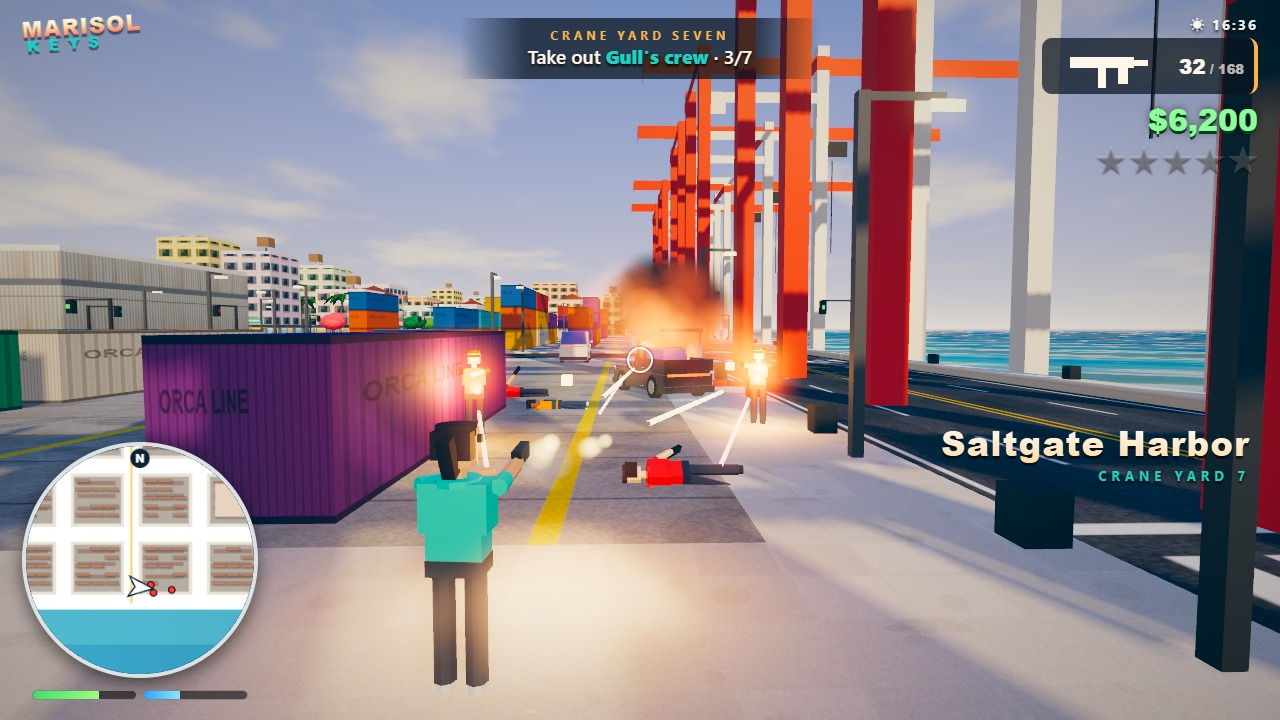
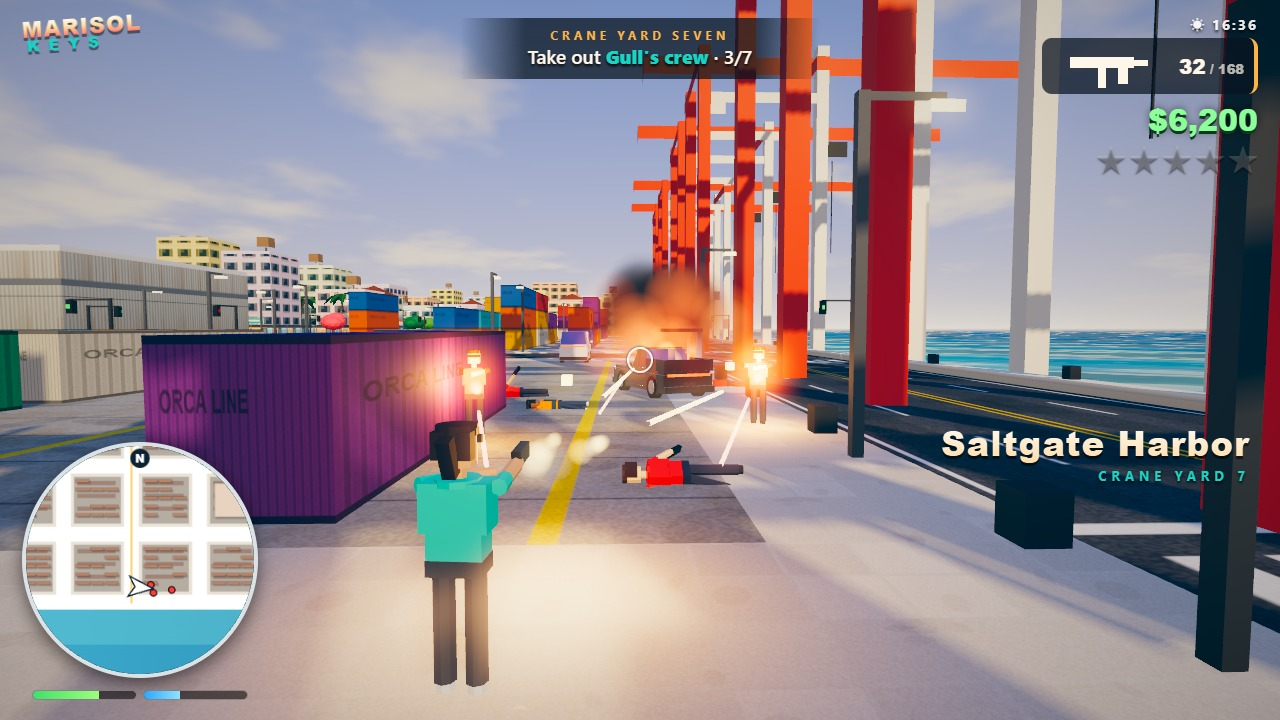
Night sky gets twinkling stars and a moon; lit windows fill the whole pane instead of a torn shape

Changed region(s): [[0.4375, 0.3361, 0.5938, 0.55], [0.4062, 0.6111, 0.4688, 0.6722]]

diff --git a/game/src/sky/skyDome.js b/game/src/sky/skyDome.js
@@ -1,4 +1,5 @@
-// Gradient sky dome with a soft sun disc, glow and painted cumulus bands, following the camera.
+// Gradient sky dome with a soft sun disc, glow and painted cumulus bands, stars and a moon at
+// night, following the camera.
 
 import * as THREE from 'three';
 
@@ -36,6 +37,19 @@ void main() {
   float s = max(dot(d, normalize(uSunDir)), 0.0);
   col += uSunColor * (pow(s, 6.0) * 0.35 + pow(s, 60.0) * 0.6);
   col += vec3(1.0, 0.95, 0.85) * smoothstep(0.9993, 0.9997, s) * 2.0;
+  // night: twinkling stars and a moon opposite the sun, fading in as the zenith darkens
+  float night = smoothstep(0.02, -0.18, normalize(uSunDir).y);
+  if (night > 0.0 && d.y > 0.0) {
+    vec2 sp = d.xz / (d.y + 0.35) * 85.0;
+    vec2 g = floor(sp);
+    float star = step(0.991, hash(g)) * smoothstep(0.24, 0.04, length(fract(sp) - 0.5));
+    float twinkle = 0.65 + 0.35 * sin(uTime * 3.0 + hash(g + 7.0) * 40.0);
+    col += vec3(0.9, 0.95, 1.0) * star * twinkle * night * smoothstep(0.03, 0.3, d.y) * (0.8 + hash(g + 3.0) * 1.4);
+    vec3 moonDir = normalize(vec3(-uSunDir.x, abs(uSunDir.y) * 0.8 + 0.25, -uSunDir.z + 0.3));
+    float m = max(dot(d, moonDir), 0.0);
+    col += vec3(0.95, 0.93, 0.85) * smoothstep(0.99955, 0.99975, m) * 1.6 * night;
+    col += vec3(0.45, 0.55, 0.8) * pow(m, 80.0) * 0.25 * night;
+  }
   // clouds: a band of soft cumulus above the horizon
   if (d.y > 0.0) {
     vec2 uv = d.xz / (d.y + 0.15) * 1.6 + vec2(uTime * 0.004, 0.0);

diff --git a/game/src/buildings/facadeTextures.js b/game/src/buildings/facadeTextures.js
@@ -210,7 +210,10 @@ export function litWindowsFrom(tex, cols, rows, seed = 5) {
       const r = sd[i], gg = sd[i + 1], b = sd[i + 2];
       const lum = (r * 0.3 + gg * 0.59 + b * 0.11) / 255;
       const cell = lit[Math.floor(x / (w / cols)) + Math.floor(y / (h / rows)) * cols];
-      if (cell && lum < 0.62 && b >= r - 10) { out.data[i] = cell[0]; out.data[i + 1] = cell[1]; out.data[i + 2] = cell[2]; }
+      // glass is picked by its blue cast rather than its brightness, so the pale diagonal sky
+      // reflection painted on the panes lights up too instead of leaving a torn dark edge
+      const glass = b - r > 12 || (lum < 0.45 && b >= r - 10);
+      if (cell && glass) { out.data[i] = cell[0]; out.data[i + 1] = cell[1]; out.data[i + 2] = cell[2]; }
       out.data[i + 3] = 255;
     }
   }
